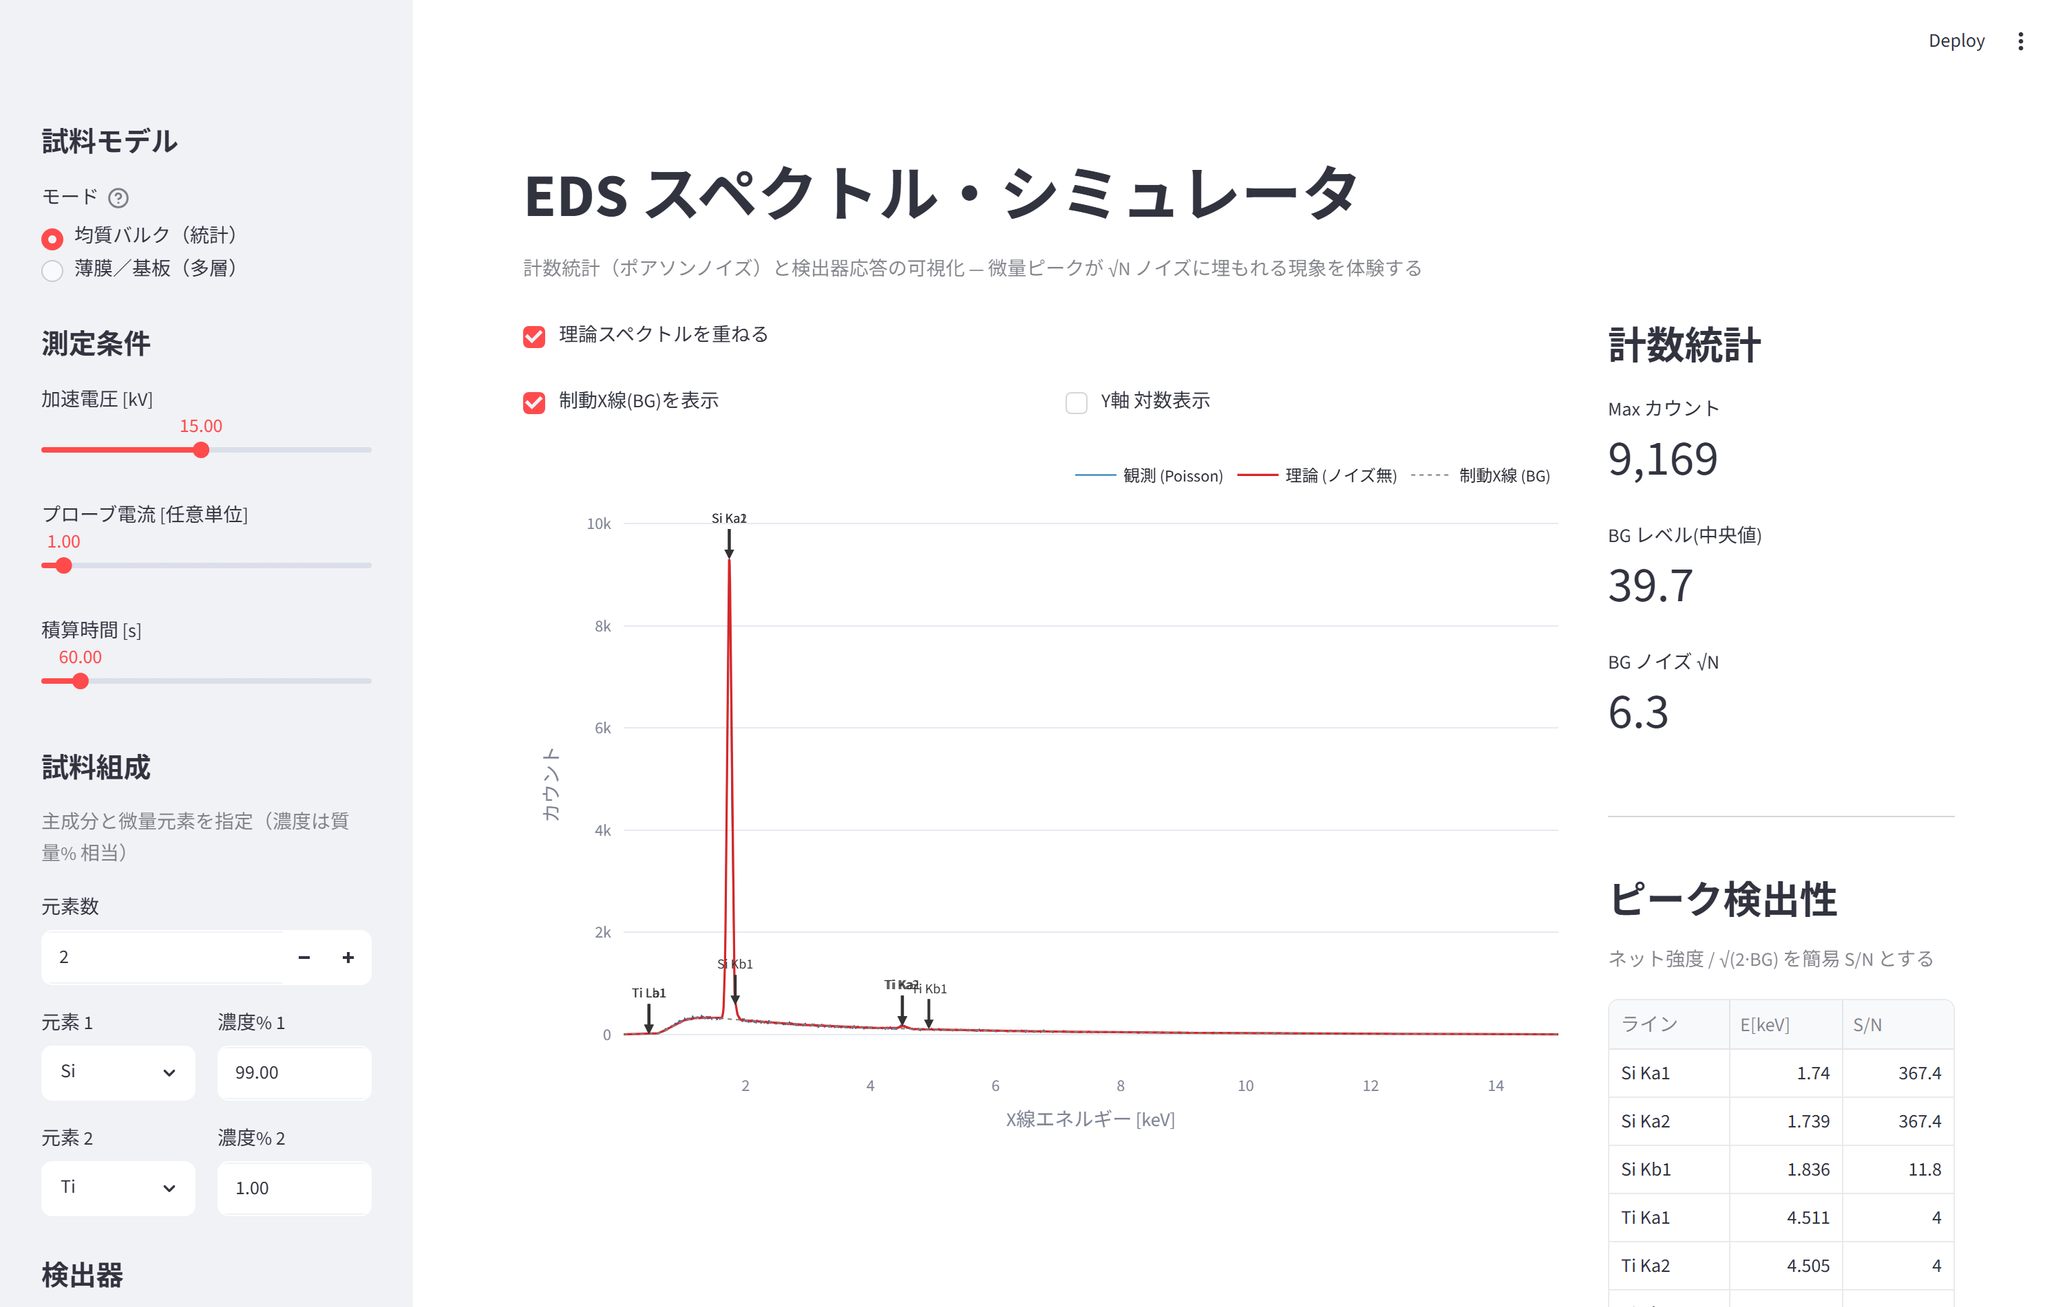
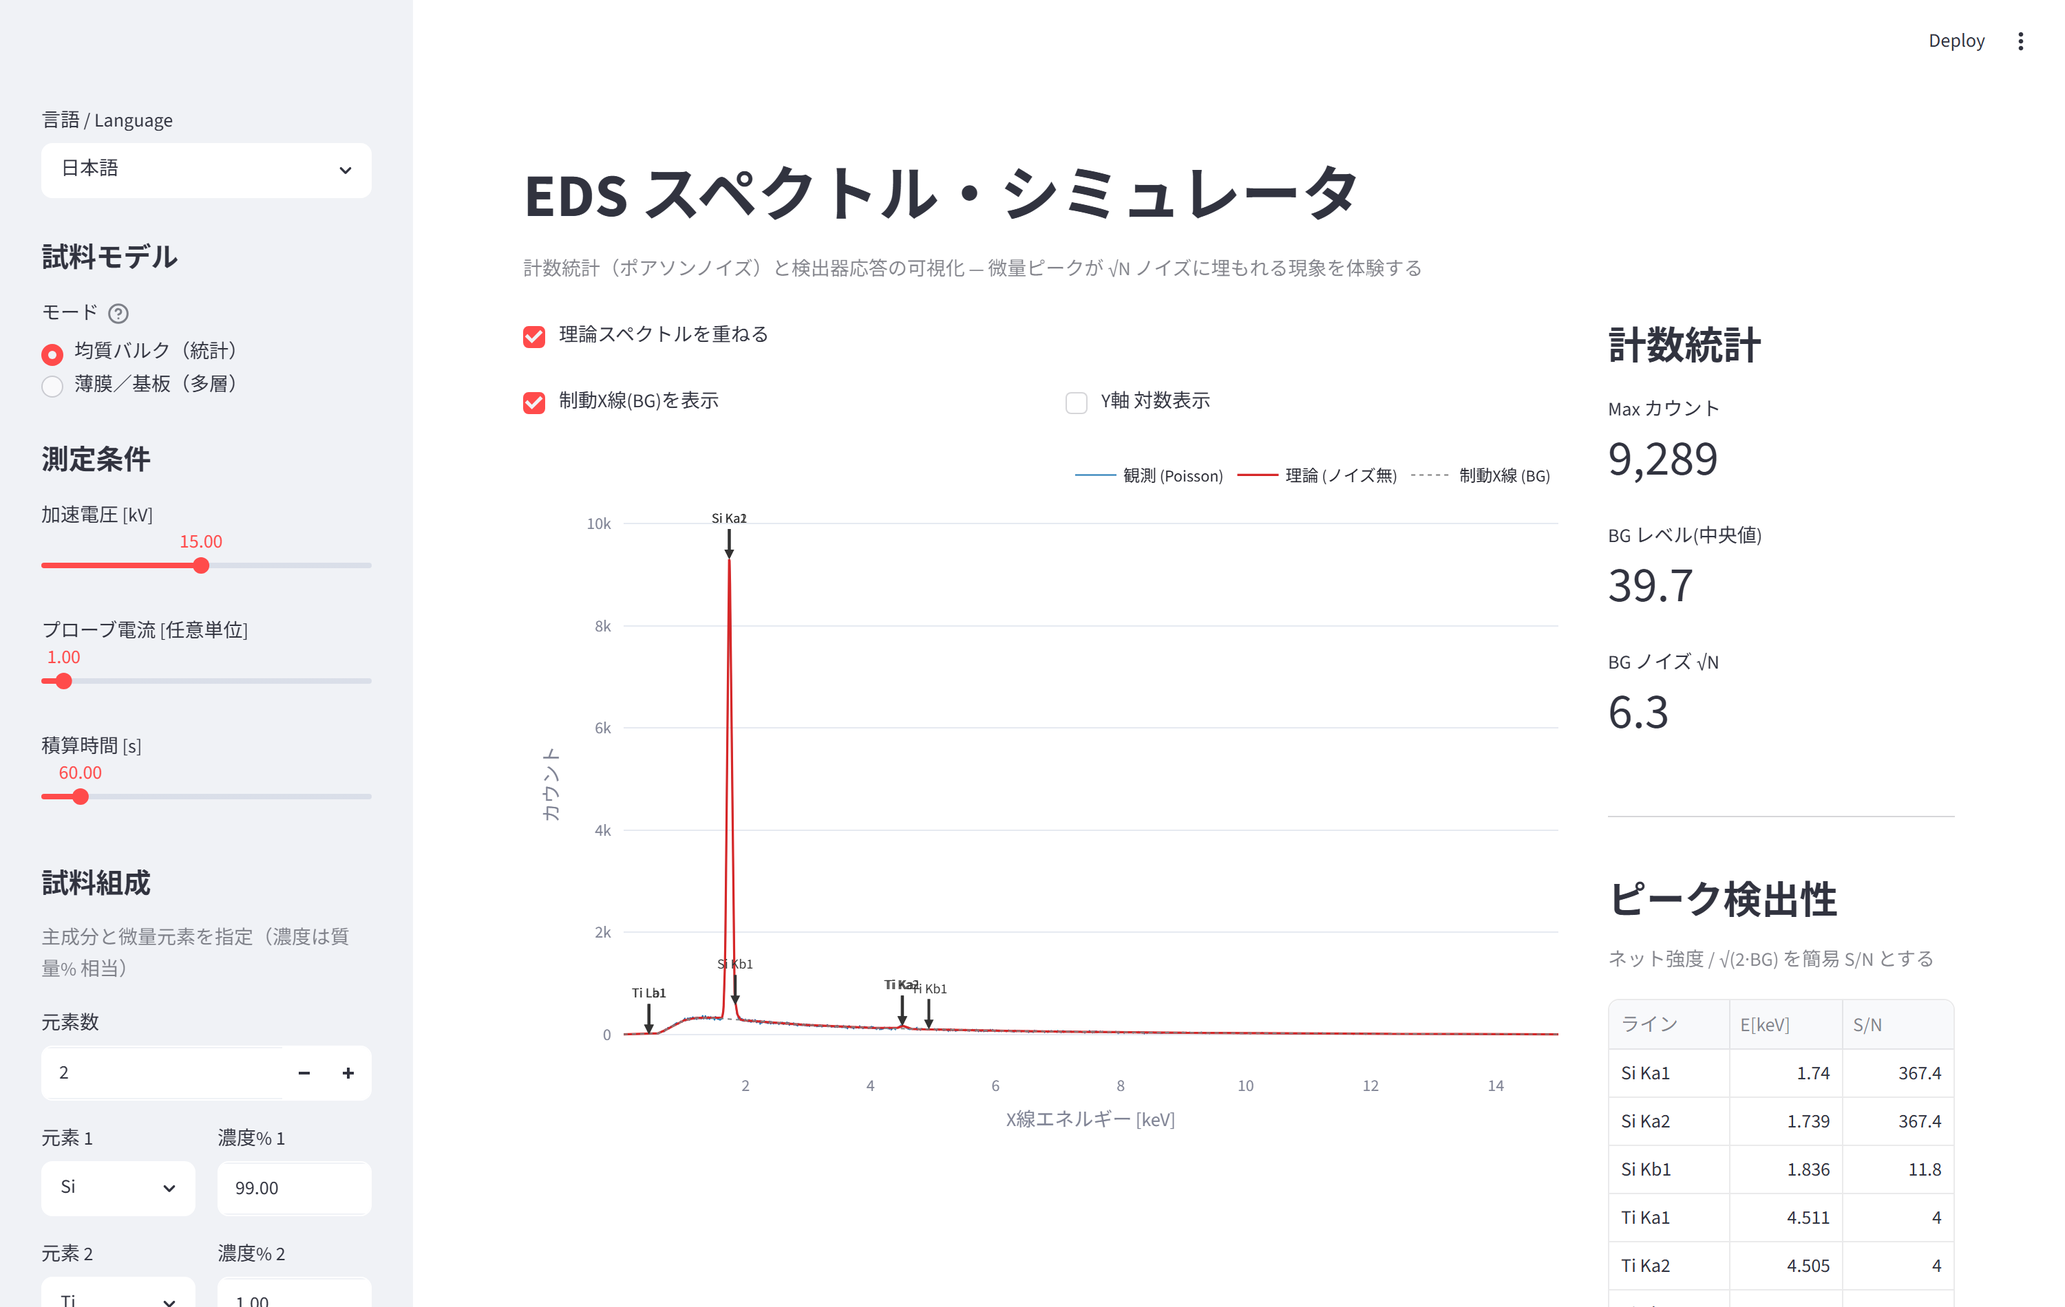
docs: English-primary README + Japanese README.ja.md
Split the README into an English-primary README.md and a full Japanese
README.ja.md with cross-links, for a global audience. Add English and
Japanese app screenshots and note the in-app EN/JA toggle.

diff --git a/README.md b/README.md
@@ -1,4 +1,6 @@
-# EDS Spectrum Simulator / EDS スペクトル・シミュレータ
+# EDS Spectrum Simulator
+
+**English** · [日本語](README.ja.md)
 
 [![Open in Streamlit](https://static.streamlit.io/badges/streamlit_badge_black_white.svg)](https://edssimulator-xjd8gyxkgdwezujsfevvha.streamlit.app/)
 [![License](https://img.shields.io/badge/license-Apache%202.0-blue.svg)](LICENSE)
@@ -8,35 +10,34 @@
 An interactive **web app for building intuition about EDS/EDX measurements** — counting
 statistics (Poisson noise), detector response, and thin-film / multilayer matrix effects.
 Built with Streamlit, Plotly and [xraylib](https://github.com/tschoonj/xraylib).
-教育・R&D 用のインタラクティブな EDS スペクトル・シミュレータです。
 
 **▶ Live demo (no install): https://edssimulator-xjd8gyxkgdwezujsfevvha.streamlit.app/**
 
+🌐 The app UI is available in **English and Japanese** (toggle at the top of the sidebar).
+
 ![Trace peak buried in sqrt(N) noise, revealed by more counts](docs/demo_statistics.png)
 
-> A 1 % trace element (Ti) is invisible in the noise when under-counted (Max ~2,000),
-> but emerges once enough counts are collected (Max ~90,000) — the same sample, only the
-> measurement condition changed. 同じ試料でも測定条件（線量）次第で微量ピークは
-> 統計ノイズに埋もれ、あるいは出現します。
+> A 1 % trace element (Ti) is invisible in the noise when under-counted (Max ~2,000), but
+> emerges once enough counts are collected (Max ~90,000) — the same sample, only the
+> measurement condition changed.
+
+![The app UI](docs/screenshot_app_en.png)
 
 ---
 
-## Why / このツールの狙い
+## Why
 
 Analysts often misread EDS results. Two common failure modes this tool makes tangible:
 
 - **"No peak, so the element is absent."** A 1 % element can be completely buried in the
   √N background noise at a few thousand counts. Increase probe current / live time and it
-  appears — no change in composition.
+  appears — with no change in composition.
 - **"Higher kV is always better."** For an ALD-thin film on a substrate, most of the
   interaction volume is the substrate. Lowering the accelerating voltage shrinks the
   φ(ρz) generation depth, suppresses the substrate signal, and relatively enhances the
   film S/N.
 
-分析現場での「ピークが見えない＝存在しない」という誤認や、極薄膜分析での
-加速電圧の取り過ぎ（情報体積の大半が基板由来）を、定量的に可視化します。
-
-## Features / 機能
+## Features
 
 - **Counting statistics**: Kramers bremsstrahlung + Gaussian characteristic peaks, with
   `numpy.random.poisson` shot noise. Max counts scales linearly with probe current × live time.
@@ -50,8 +51,9 @@ Analysts often misread EDS results. Two common failure modes this tool makes tan
   distribution anchored to the **Kanaya-Okayama** electron range, integrated with
   `scipy.integrate.quad`.
 - **Two modes**: *homogeneous bulk (statistics)* and *thin film / substrate (multilayer)*.
+- **Bilingual UI**: switch between English and Japanese at runtime.
 
-## Quick start / 起動方法
+## Quick start
 
 ### Docker (recommended)
 
@@ -69,7 +71,7 @@ streamlit run app.py
 
 > `xraylib` ships PyPI wheels for every OS and Python 3.10–3.13, so pip installs it directly.
 > Without it, the app falls back to a small built-in table (Phase 1 fully works, Phase 2/3
-> accuracy limited). xraylib は PyPI wheel で入ります（conda-forge も利用可）。
+> accuracy limited).
 
 ### conda (optional)
 
@@ -80,76 +82,75 @@ pip install -r requirements.txt
 streamlit run app.py
 ```
 
-## Example structures / 構成例
+## Example structures
 
-| Structure | Layers (surface → substrate) | 何が学べるか |
+| Structure | Layers (surface → substrate) | What it shows |
 | --- | --- | --- |
-| Electrode with adhesion layer | `Au` / `Ti` / `Si` | Au の下の Ti 密着層が埋もれて見えにくい |
-| Diffusion barrier + native oxide | `SiO2` / `TiN` / `Si` | 化合物層・自然酸化膜の扱い |
-| Surface contamination | `C` / `O` / `Au` / `Si` | 付着物（軽元素）と Be 窓吸収の関係 |
+| Electrode with adhesion layer | `Au` / `Ti` / `Si` | The Ti adhesion layer under Au is hard to see |
+| Diffusion barrier + native oxide | `SiO2` / `TiN` / `Si` | Compound layers and a native oxide |
+| Surface contamination | `C` / `O` / `Au` / `Si` | Light-element deposits vs Be-window absorption |
 
-## Project layout / ディレクトリ構成
+## Project layout
 
 ```
-EDS_Simulator/
-├── app.py                 # Streamlit UI・描画
-├── eds_sim/               # 物理演算パッケージ
-│   ├── config.py          # 定数・データクラス設定
-│   ├── continuum.py       # Kramers 制動X線
-│   ├── characteristic.py  # 特性X線ライン → Gaussian（バルク／層構造）
-│   ├── composition.py     # 化学式パース・化合物密度/質量吸収（Bragg 加算則）
-│   ├── detector.py        # 分解能・窓吸収・効率
-│   ├── depth.py           # φ(ρz) 深さ分布・薄膜/基板の深さ積分
-│   ├── elements.py        # xraylib ヘルパ（遅延import・フォールバック）
-│   └── spectrum.py        # 合成 ＋ ポアソンノイズ
-├── tests/                 # スモークテスト（pytest）
+EDS_simulator/
+├── app.py                 # Streamlit UI / plotting
+├── i18n.py                # UI strings (English / Japanese)
+├── eds_sim/               # physics package
+│   ├── config.py          # constants / dataclasses
+│   ├── continuum.py       # Kramers bremsstrahlung
+│   ├── characteristic.py  # characteristic lines -> Gaussians (bulk / layered)
+│   ├── composition.py     # formula parsing, compound density / MAC (Bragg)
+│   ├── detector.py        # resolution, window absorption, efficiency
+│   ├── depth.py           # phi(rho z) and thin-film / substrate depth integrals
+│   ├── elements.py        # xraylib helpers (lazy import, fallback)
+│   └── spectrum.py        # assembly + Poisson noise
+├── tests/                 # smoke tests (pytest)
 ├── requirements.txt
 └── Dockerfile / docker-compose.yml
 ```
 
-## Model assumptions & limitations / モデルの前提と限界
+## Model assumptions & limitations
 
-- Bremsstrahlung uses the **Kramers** approximation; characteristic lines use xraylib
-  energies / radiative rates. 制動X線は Kramers 近似、特性X線は xraylib。
-- Detector resolution follows the standard **Fano-statistics** formula (calibrated to
-  130 eV at Mn Kα). 検出器分解能は Fano 統計の標準式。
-- **Peak-to-background ratio and absolute counts are an empirical calibration** for
-  visualization, not first-principles quantitative values
-  (`peak_to_background`, `intensity_scale`). P/B・絶対カウントは可視化向けの経験較正。
-- Thin-film φ(ρz) is **Packwood-Brown** with a **Kanaya-Okayama** depth scale; the electron
-  scattering matrix is approximated by the substrate composition (thin films, ρz ≪ range).
-  厚い重元素最上層では電子減速を過小評価しうる。
+- Bremsstrahlung uses the **Kramers** approximation; characteristic lines use xraylib line
+  energies.
 - Line intensities use a **Bethe electron-impact ionization** cross-section (∝ ln U / U,
   U = E0/Ec) × fluorescence yield × radiative rate — appropriate for electron-beam EDS, not
-  the photon-excited (XRF) cross-sections. Absolute quantification is still not the goal.
-  電子線励起 EDS 向けのモデルで、定量値そのものを与えるものではない。
-- Compound formulas support **simple formulas only** (no parentheses). Densities come from a
+  the photon-excited (XRF) cross-sections.
+- Detector resolution follows the standard **Fano-statistics** formula (calibrated to 130 eV
+  at Mn Kα); window absorption is the Be-window mass attenuation.
+- **Peak-to-background ratio and absolute counts are an empirical calibration** for
+  visualization, not first-principles quantitative values (`peak_to_background`,
+  `intensity_scale`).
+- The thin-film φ(ρz) is **Packwood-Brown** with a **Kanaya-Okayama** depth scale; the
+  electron-scattering matrix is approximated by the substrate composition (thin films,
+  ρz ≪ range), so a thick heavy top layer underestimates electron slowing-down.
+- Compound formulas support **simple formulas only** (no parentheses). Density comes from a
   preset table / single-element values, otherwise a nominal default (manual entry recommended).
-  化合物は単純式のみ（括弧なし）。密度は要手入力推奨。
 
-## Roadmap / 今後の予定
+## Roadmap
 
-- [ ] Parenthetical / hydrate formulas (e.g. `Ca(OH)2`). 括弧・水和物対応の組成パーサ。
-- [ ] Multi-element compound density presets expansion. 化合物密度プリセットの拡充。
+- [ ] Parenthetical / hydrate formulas (e.g. `Ca(OH)2`).
+- [ ] Expand the compound-density preset table.
 - [ ] Absorption-edge visualization on the spectrum.
 - [ ] Refined electron-impact cross-sections (Casnati / Bote-Salvat) and Coster-Kronig.
 
-## Tests / テスト
+## Tests
 
 ```bash
 pip install pytest
 pytest tests/ -v
 ```
 
-## License / ライセンス
+## License
 
 Apache License 2.0 — see [LICENSE](LICENSE) and [NOTICE](NOTICE).
 
-## Citation / 引用
+## Citation
 
 If this tool is useful in your work, please cite it (see [CITATION.cff](CITATION.cff)).
 
-## Author / 作者
+## Author
 
-**よっしー (Tohoku Yossy)** — materials scientist (thin-film synthesis, surface analysis).
+**Yossy (Tohoku Yossy)** — materials scientist (thin-film synthesis, surface analysis).
 GitHub: [@yharada520](https://github.com/yharada520)

diff --git a/README.ja.md b/README.ja.md
@@ -1,0 +1,145 @@
+# EDS スペクトル・シミュレータ
+
+[English](README.md) · **日本語**
+
+[![Open in Streamlit](https://static.streamlit.io/badges/streamlit_badge_black_white.svg)](https://edssimulator-xjd8gyxkgdwezujsfevvha.streamlit.app/)
+[![License](https://img.shields.io/badge/license-Apache%202.0-blue.svg)](LICENSE)
+[![Python](https://img.shields.io/badge/python-3.10%2B-blue.svg)](https://www.python.org/)
+[![CI](https://github.com/yharada520/EDS_simulator/actions/workflows/ci.yml/badge.svg)](https://github.com/yharada520/EDS_simulator/actions/workflows/ci.yml)
+
+SEM-EDS（エネルギー分散型X線分析）の**計数統計（ポアソンノイズ）・検出器応答・薄膜/多層の
+マトリクス効果**を、スライダー操作で直感的に理解する教育・R&D 用の Web アプリです。
+Streamlit / Plotly / [xraylib](https://github.com/tschoonj/xraylib) 製。
+
+**▶ 公開デモ（インストール不要）: https://edssimulator-xjd8gyxkgdwezujsfevvha.streamlit.app/**
+
+🌐 UI は**日本語と英語**を切り替えられます（サイドバー先頭のセレクタ）。
+
+![低カウントと十分なカウントの比較](docs/demo_statistics.png)
+
+> まったく同じ試料（Si 99% + 微量 Ti 1%）でも、**測定条件（線量）を変えるだけ**で微量ピークが
+> 統計ノイズに埋もれたり出現したりします。左は Max 約2,000カウント、右は約90,000カウント。
+
+![アプリの画面](docs/screenshot_app.png)
+
+---
+
+## このツールの狙い
+
+分析現場では EDS の計数統計や相互作用領域についての誤解が根強く残ります。本ツールは次の2つを
+定量的に可視化します。
+
+- **「ピークが見えない＝存在しない」の誤認**: 1% 含有の元素でも、数千カウント程度では
+  バックグラウンドの √N ゆらぎに埋もれて見えない。プローブ電流・積算時間を増やせば、組成は
+  同じでもピークが出現する。
+- **加速電圧の取り過ぎ**: 基板上の極薄膜では情報体積の大半が基板由来。加速電圧を下げると
+  φ(ρz) の発生深さが浅くなり、基板シグナルが減って薄膜の S/N が相対的に向上する。
+
+## 機能
+
+- **計数統計**: Kramers 制動X線 ＋ Gaussian 特性ピーク ＋ `numpy.random.poisson` の
+  ショットノイズ。Max カウントはプローブ電流×積算時間に線形連動。
+- **xraylib データベース**: ライン energy・吸収端・蛍光収率・質量減衰係数（Be 窓/自己吸収）。
+  相対強度は**電子衝突電離（Bethe形）×蛍光収率×遷移確率**で、多殻元素（Au の M/L 等）の
+  過電圧依存の殻間比を再現。
+- **多層薄膜**: 表面から基板まで最大5層。各層・基板は**化学式**（`TiN`, `TiO2`, `Al2O3` 等）で
+  指定でき、上層による吸収は Bragg 加算則で計算。解析的 **Packwood-Brown φ(ρz)**（深さスケールは
+  **Kanaya-Okayama 電子飛程**に固定）を `scipy.integrate.quad` で深さ積分。
+- **2つのモード**: 均質バルク（統計）／薄膜・基板（多層）。
+- **日英 UI**: 実行中に日本語⇔英語を切り替え可能。
+
+## 起動方法
+
+### Docker（推奨）
+
+```bash
+docker compose up --build
+# ブラウザで http://localhost:8501
+```
+
+### pip
+
+```bash
+pip install -r requirements.txt
+streamlit run app.py
+```
+
+> `xraylib` は各 OS・Python 3.10〜3.13 の PyPI wheel があり、pip でそのまま入ります。
+> 未導入時は内蔵の簡易テーブルにフォールバック（フェーズ1は完全動作、フェーズ2/3は精度限定）。
+
+### conda（任意）
+
+```bash
+conda create -n eds-sim python=3.12
+conda activate eds-sim
+pip install -r requirements.txt
+streamlit run app.py
+```
+
+## 構成例
+
+| 構造 | 層（表面 → 基板） | 何が学べるか |
+| --- | --- | --- |
+| 密着層付き電極 | `Au` / `Ti` / `Si` | Au の下の Ti 密着層が埋もれて見えにくい |
+| 拡散バリア＋自然酸化膜 | `SiO2` / `TiN` / `Si` | 化合物層・自然酸化膜の扱い |
+| 表面付着物 | `C` / `O` / `Au` / `Si` | 付着物（軽元素）と Be 窓吸収の関係 |
+
+## ディレクトリ構成
+
+```
+EDS_simulator/
+├── app.py                 # Streamlit UI・描画
+├── i18n.py                # UI 文字列（日本語/英語）
+├── eds_sim/               # 物理演算パッケージ
+│   ├── config.py          # 定数・データクラス設定
+│   ├── continuum.py       # Kramers 制動X線
+│   ├── characteristic.py  # 特性X線ライン → Gaussian（バルク／層構造）
+│   ├── composition.py     # 化学式パース・化合物密度/質量吸収（Bragg 加算則）
+│   ├── detector.py        # 分解能・窓吸収・効率
+│   ├── depth.py           # φ(ρz) 深さ分布・薄膜/基板の深さ積分
+│   ├── elements.py        # xraylib ヘルパ（遅延import・フォールバック）
+│   └── spectrum.py        # 合成 ＋ ポアソンノイズ
+├── tests/                 # スモークテスト（pytest）
+├── requirements.txt
+└── Dockerfile / docker-compose.yml
+```
+
+## モデルの前提と限界
+
+- 制動X線は **Kramers 近似**、特性X線は xraylib のラインエネルギー。
+- 相対強度は **Bethe 形の電子衝突電離断面積**（∝ ln U / U, U = E0/Ec）× 蛍光収率 × 遷移確率。
+  電子線励起 EDS 向けで、光子励起（XRF）の断面積とは異なる。
+- 検出器分解能は **Fano 統計の標準式**（Mn Kα 130 eV を基準に較正）、窓吸収は Be 窓の質量減衰。
+- **P/B 比・絶対カウントは可視化向けの経験較正**であり第一原理の定量値ではない
+  （`peak_to_background`, `intensity_scale`）。
+- 薄膜 φ(ρz) は **Packwood-Brown**、深さスケールは **Kanaya-Okayama** 飛程に固定。電子散乱
+  マトリクスは基板組成で近似（薄膜 ρz ≪ 飛程）。厚い重元素最上層では電子減速を過小評価しうる。
+- 化合物式は**単純式のみ**（括弧なし）。密度はプリセット/単一元素は自動、それ以外は仮の既定値
+  （手入力推奨）。
+
+## 今後の予定
+
+- [ ] 括弧・水和物を含む組成式（例: `Ca(OH)2`）
+- [ ] 化合物密度プリセットの拡充
+- [ ] 吸収端のスペクトル上への可視化
+- [ ] 電子衝突電離断面積の高精度化（Casnati / Bote-Salvat）と Coster-Kronig
+
+## テスト
+
+```bash
+pip install pytest
+pytest tests/ -v
+```
+
+## ライセンス
+
+Apache License 2.0 — [LICENSE](LICENSE) と [NOTICE](NOTICE) を参照。
+
+## 引用
+
+研究等で役立った場合は引用いただけると幸いです（[CITATION.cff](CITATION.cff) 参照）。
+
+## 作者
+
+**よっしー (Tohoku Yossy)** — 材料科学者（薄膜合成・表面分析）。
+GitHub: [@yharada520](https://github.com/yharada520)
